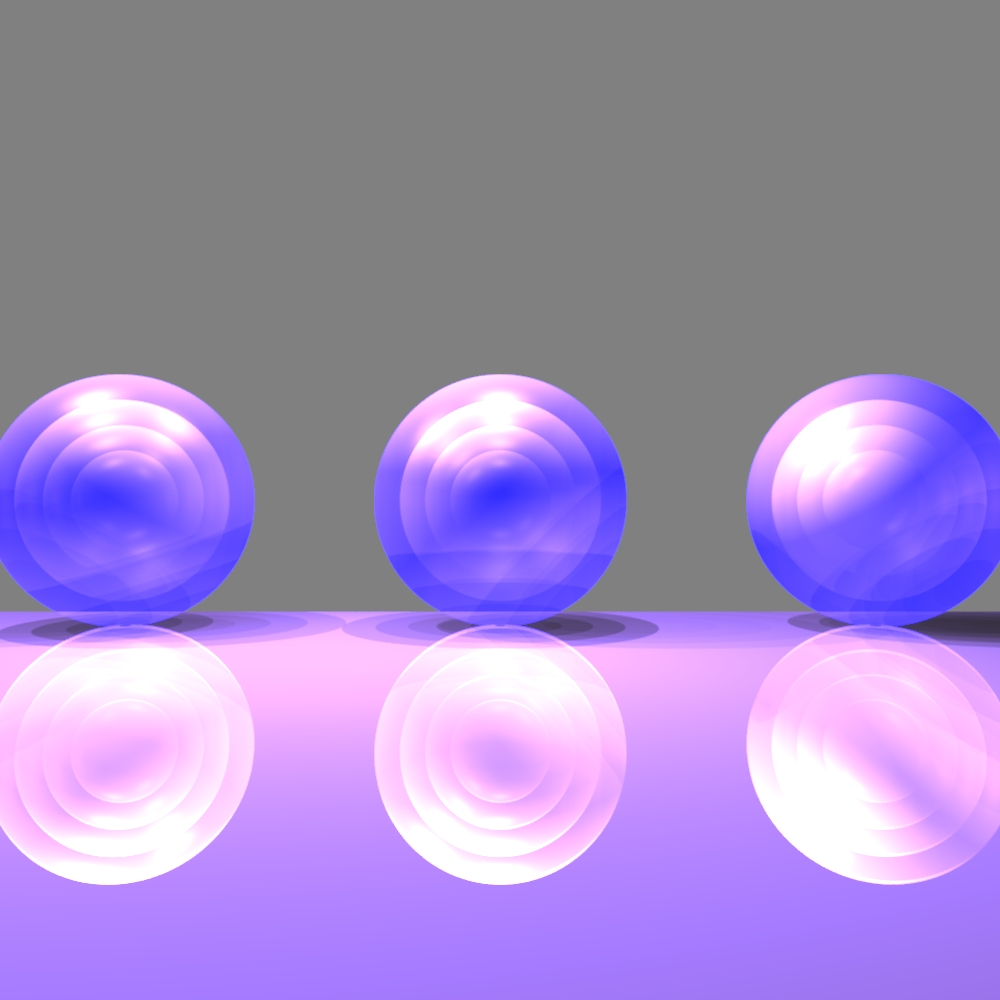
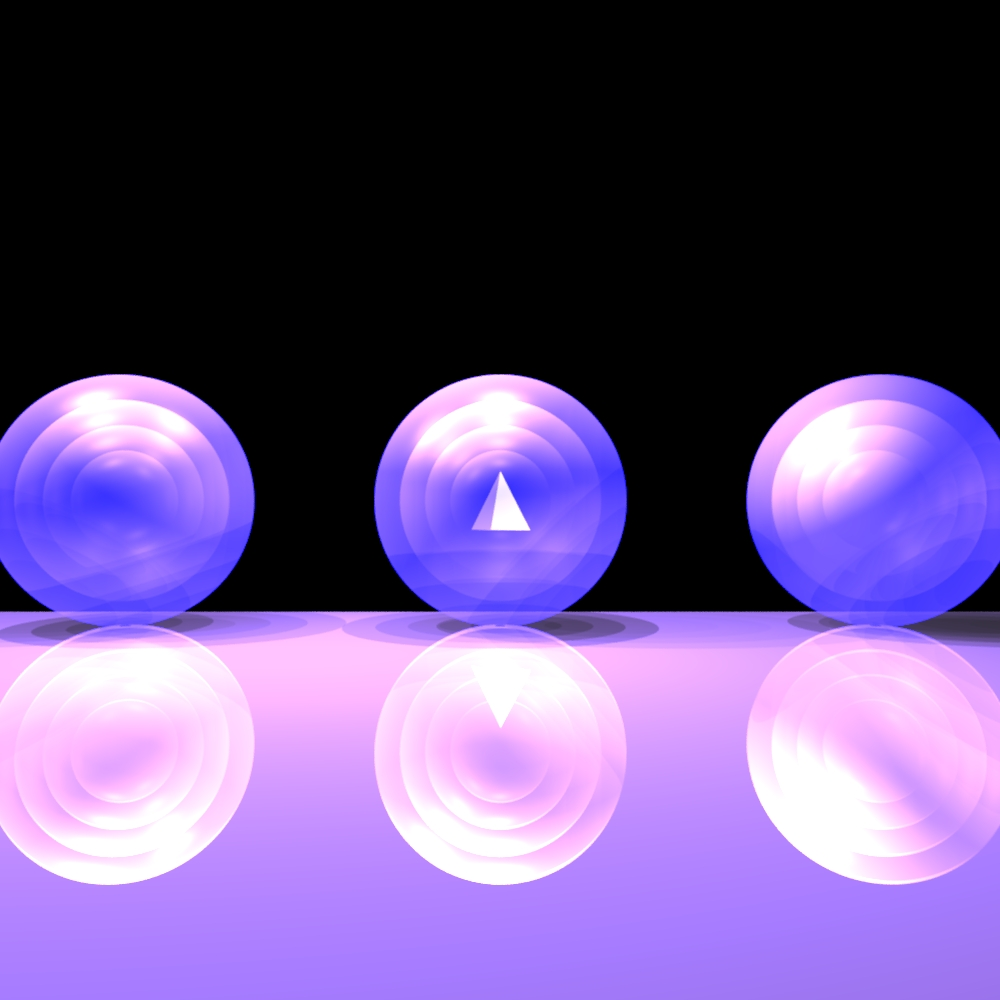
28/6

diff --git a/unittests/renderer/miniProjectTest.java b/unittests/renderer/miniProjectTest.java
@@ -12,11 +12,14 @@ public class miniProjectTest {
         Scene scene = new Scene("odelia_Mimi");
         scene.setCamera(new Camera(new Point3D(0, 0, -1000), new Vector(0, 0, 1), new Vector(0, -1, 0)));
         scene.setDistance(1000);
-        scene.setBackground(new Color(java.awt.Color.GRAY));
+        scene.setBackground(Color.BLACK);
         scene.setAmbientLight(new AmbientLight(new Color(java.awt.Color.WHITE), 0.15));
 
         scene.addGeometries(
-
+//pyramid
+                new Triangle(new Color(255,255,255), new Material(0.8, 0.8, 30, 1, 0), new Point3D(-10,30,0), new Point3D(30,30,0), new Point3D(0,-30,10)),
+                new Triangle(new Color(255,255,255), new Material(0.8, 0.8, 30, 1, 0), new Point3D(30,30,0), new Point3D(-10,30,30), new Point3D(0,-30,10)),
+                new Triangle(new Color(java.awt.Color.ORANGE), new Material(0.8, 0.8, 30, 1, 0), new Point3D(-10,30,0), new Point3D(-30,30,30), new Point3D(0,-30,10)),
 //middle sphereinsphere
                 new Sphere(100, new Point3D(0, 0, -200),new Color(java.awt.Color.BLUE), new Material(0.8, 0.8, 30, 0.8, 0)),
                 new Sphere(80,  new Point3D(0, 0, -200), new Color(java.awt.Color.BLUE), new Material(0.8, 0.8, 30, 0.8, 0)),
